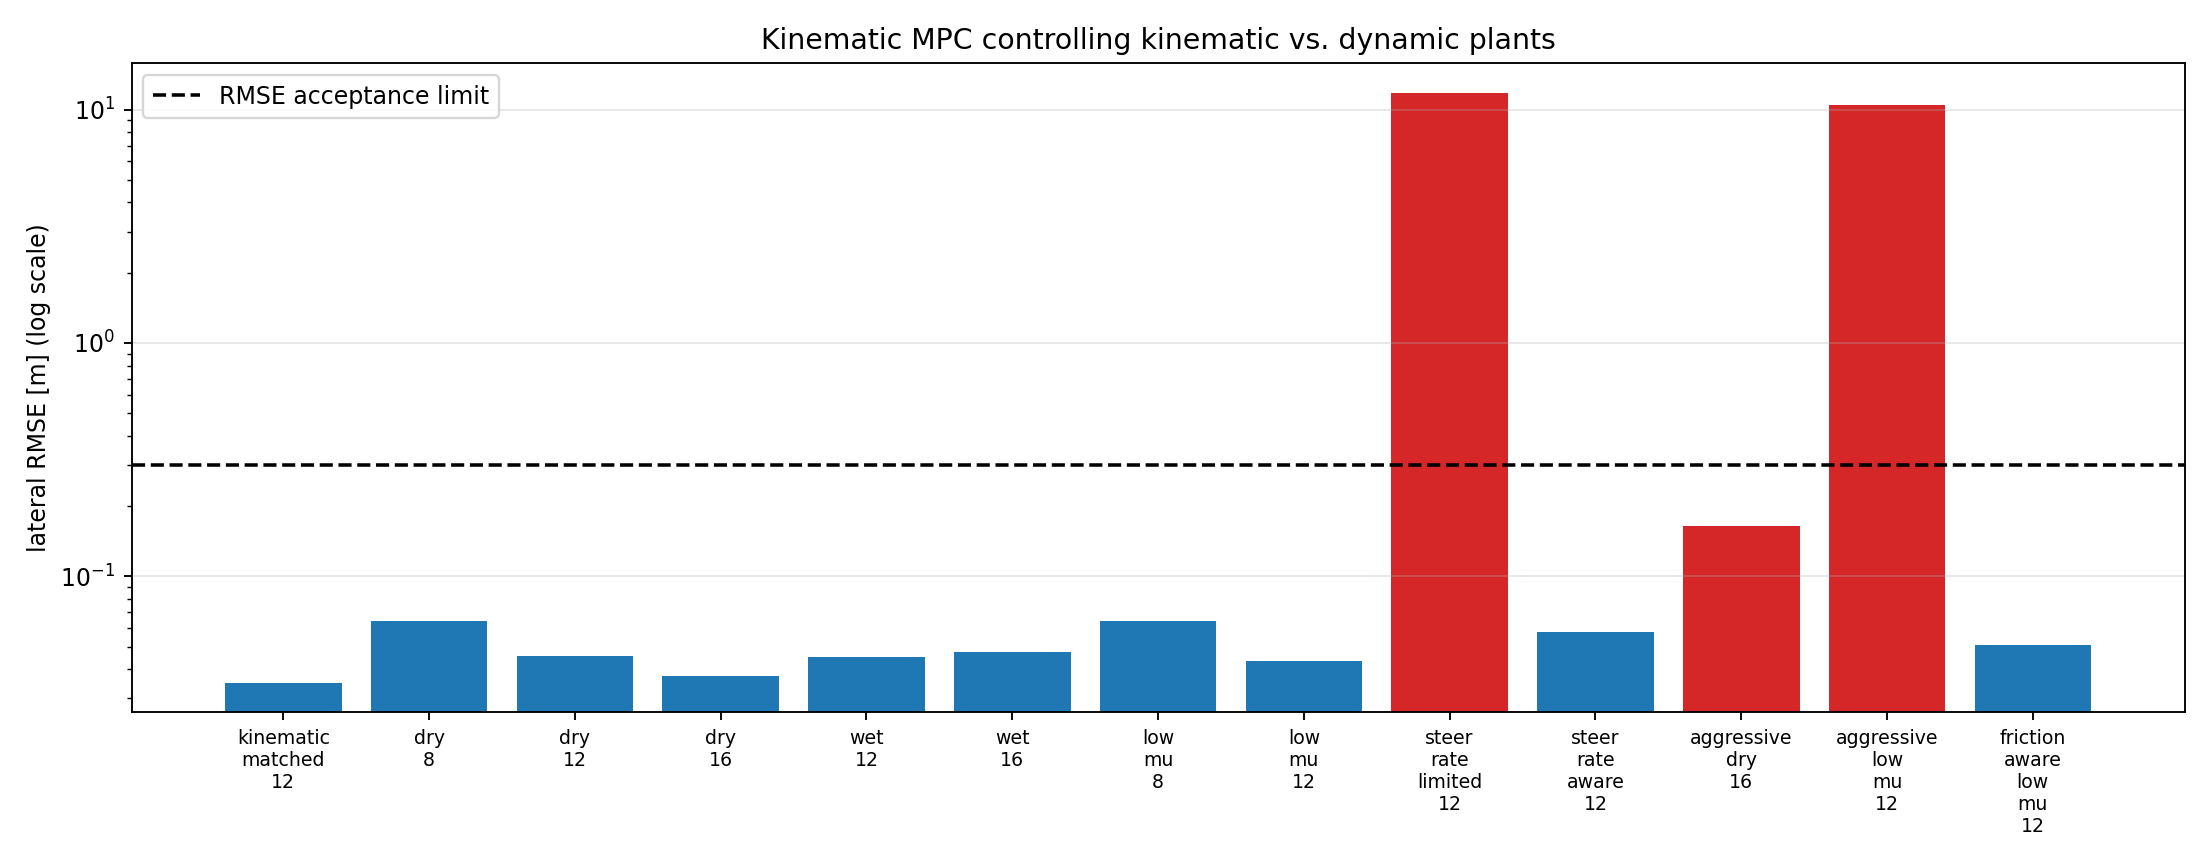
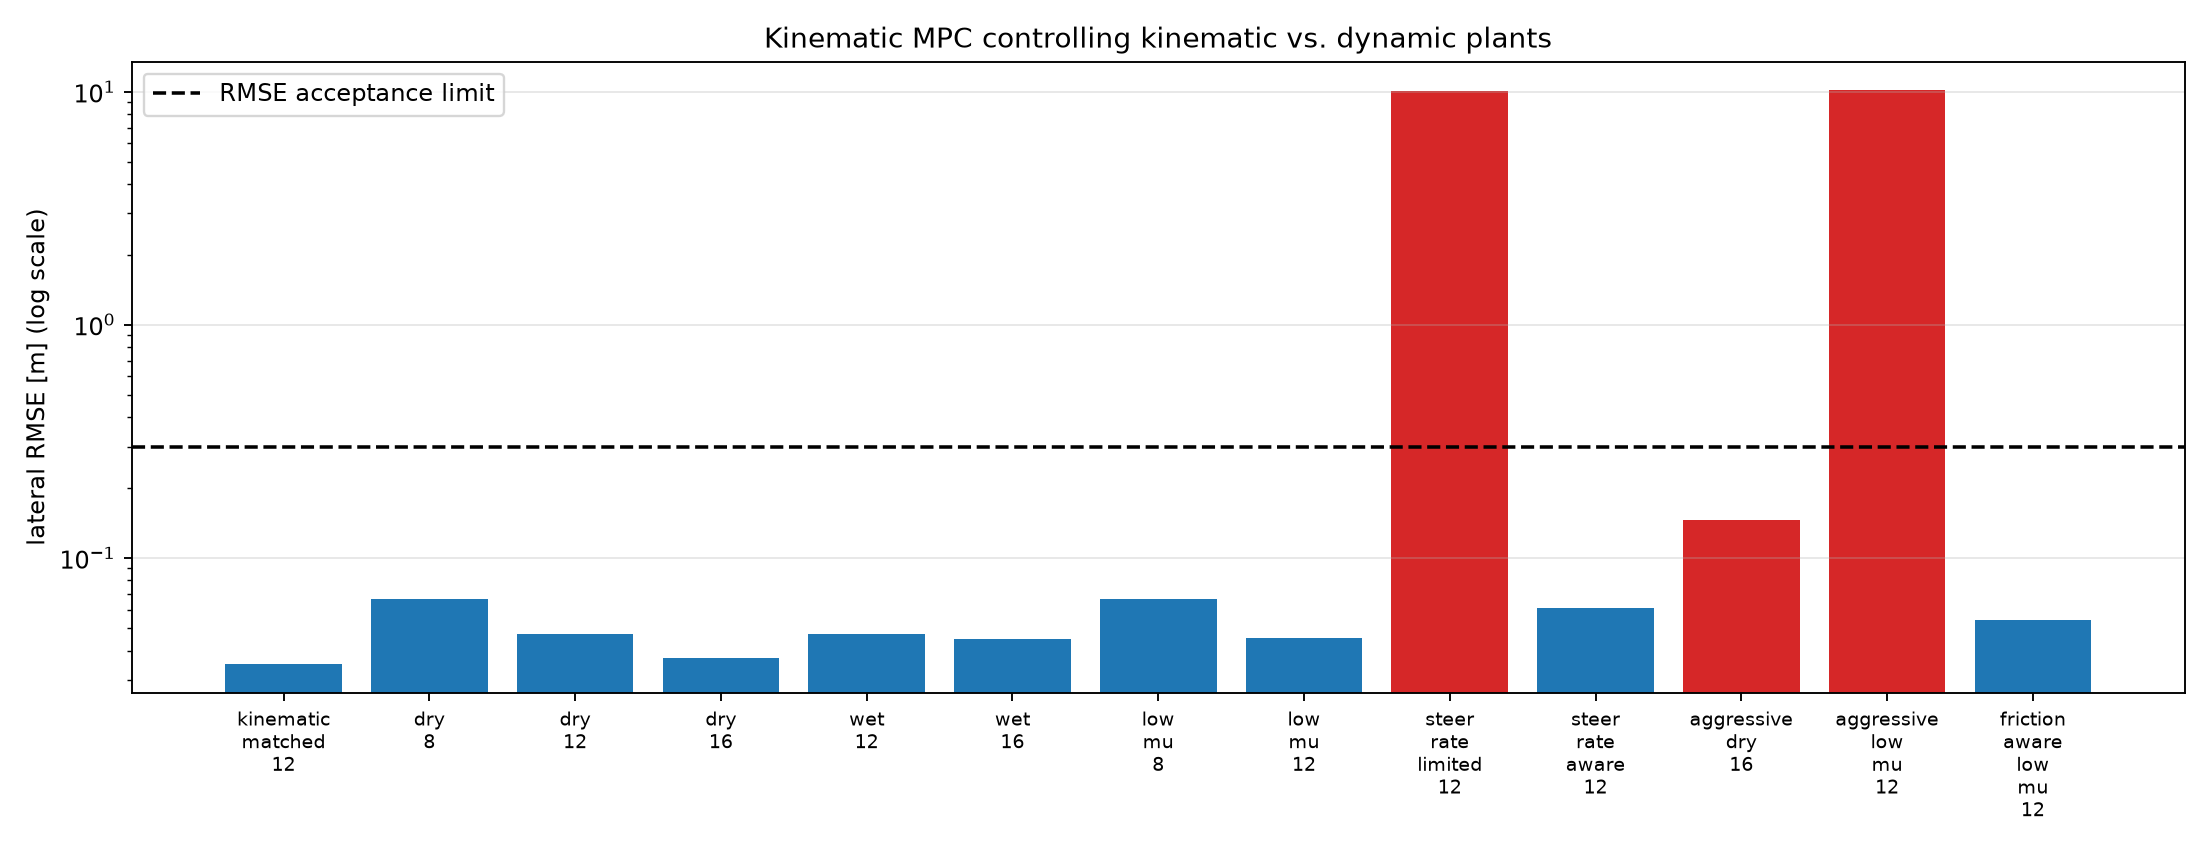
fix: correct dynamic bicycle physics and benchmark
Correct body-frame force coupling and steering-force projection in the six-state dynamic bicycle plant, add physics-invariant tests, regenerate the dynamic benchmark, and update the V1.1.1 documentation/results.

diff --git a/models/dynamic_vehicle.py b/models/dynamic_vehicle.py
@@ -64,7 +64,13 @@ class DynamicVehicleState:
 
 
 class DynamicBicycle:
-    """Six-state single-track plant with smooth nonlinear tires and friction circles."""
+    """Six-state single-track plant with nonlinear tires and per-axle friction circles.
+
+    Tire forces are formed in each wheel frame. Front-axle forces are rotated by the
+    steering angle into the vehicle body frame before the translational and yaw
+    equations are evaluated. The body-frame velocity equations retain the standard
+    ``vy * yaw_rate`` and ``vx * yaw_rate`` coupling terms.
+    """
 
     def __init__(self, config: DynamicVehicleConfig, limits: VehicleConfig, dt: float):
         if not np.isfinite(dt) or dt <= 0.0:
@@ -90,10 +96,16 @@ class DynamicBicycle:
         wheelbase = self.config.lf + self.config.lr
         front_load = self.config.mass * self.config.gravity * self.config.lr / wheelbase
         rear_load = self.config.mass * self.config.gravity * self.config.lf / wheelbase
-        total_longitudinal_force = np.clip(
-            self.config.mass * requested_accel,
-            -self.config.friction_coefficient * self.config.mass * self.config.gravity,
-            self.config.friction_coefficient * self.config.mass * self.config.gravity,
+        total_longitudinal_force = float(
+            np.clip(
+                self.config.mass * requested_accel,
+                -self.config.friction_coefficient
+                * self.config.mass
+                * self.config.gravity,
+                self.config.friction_coefficient
+                * self.config.mass
+                * self.config.gravity,
+            )
         )
         front_longitudinal = total_longitudinal_force * self.config.lr / wheelbase
         rear_longitudinal = total_longitudinal_force * self.config.lf / wheelbase
@@ -102,20 +114,20 @@ class DynamicBicycle:
         rear_circle = self.config.friction_coefficient * rear_load
         front_lateral_limit = np.sqrt(max(front_circle**2 - front_longitudinal**2, 0.0))
         rear_lateral_limit = np.sqrt(max(rear_circle**2 - rear_longitudinal**2, 0.0))
-        front_force = self._smooth_tire_force(
+        front_lateral = self._smooth_tire_force(
             alpha_front,
             self.config.cornering_stiffness_front,
             front_lateral_limit,
         )
-        rear_force = self._smooth_tire_force(
+        rear_lateral = self._smooth_tire_force(
             alpha_rear,
             self.config.cornering_stiffness_rear,
             rear_lateral_limit,
         )
-        front_utilization = np.hypot(front_longitudinal, front_force) / max(
+        front_utilization = np.hypot(front_longitudinal, front_lateral) / max(
             front_circle, 1e-9
         )
-        rear_utilization = np.hypot(rear_longitudinal, rear_force) / max(
+        rear_utilization = np.hypot(rear_longitudinal, rear_lateral) / max(
             rear_circle, 1e-9
         )
         self.max_tire_friction_utilization = max(
@@ -123,15 +135,21 @@ class DynamicBicycle:
             float(front_utilization),
             float(rear_utilization),
         )
-        accel = total_longitudinal_force / self.config.mass
+
+        cos_steer = np.cos(steer)
+        sin_steer = np.sin(steer)
+        front_force_x = front_longitudinal * cos_steer - front_lateral * sin_steer
+        front_force_y = front_longitudinal * sin_steer + front_lateral * cos_steer
+        total_force_x = front_force_x + rear_longitudinal
+        total_force_y = front_force_y + rear_lateral
 
         x_dot = vx * np.cos(yaw) - vy * np.sin(yaw)
         y_dot = vx * np.sin(yaw) + vy * np.cos(yaw)
         yaw_dot = yaw_rate
-        vx_dot = accel
-        vy_dot = (front_force + rear_force) / self.config.mass - vx * yaw_rate
+        vx_dot = total_force_x / self.config.mass + vy * yaw_rate
+        vy_dot = total_force_y / self.config.mass - vx * yaw_rate
         yaw_rate_dot = (
-            self.config.lf * front_force - self.config.lr * rear_force
+            self.config.lf * front_force_y - self.config.lr * rear_lateral
         ) / self.config.yaw_inertia
         return np.array([x_dot, y_dot, yaw_dot, vx_dot, vy_dot, yaw_rate_dot])
 

diff --git a/tests/test_dynamic_physics.py b/tests/test_dynamic_physics.py
@@ -1,0 +1,73 @@
+import unittest
+
+import numpy as np
+
+from config import VehicleConfig
+from models import DynamicBicycle, DynamicVehicleConfig, DynamicVehicleState
+
+
+class DynamicBicyclePhysicsTests(unittest.TestCase):
+    def setUp(self) -> None:
+        self.limits = VehicleConfig()
+
+    def test_zero_input_straight_motion_is_force_free(self):
+        plant = DynamicBicycle(DynamicVehicleConfig(), self.limits, 0.1)
+        derivative = plant._derivative(
+            DynamicVehicleState(0.0, 0.0, 0.0, 10.0).as_array(),
+            np.array([0.0, 0.0]),
+        )
+        np.testing.assert_allclose(
+            derivative,
+            np.array([10.0, 0.0, 0.0, 0.0, 0.0, 0.0]),
+            atol=1e-12,
+        )
+
+    def test_body_frame_longitudinal_equation_retains_vy_yaw_rate_coupling(self):
+        config = DynamicVehicleConfig(
+            cornering_stiffness_front=1e-9,
+            cornering_stiffness_rear=1e-9,
+        )
+        plant = DynamicBicycle(config, self.limits, 0.1)
+        state = DynamicVehicleState(
+            0.0,
+            0.0,
+            0.0,
+            vx=10.0,
+            vy=1.0,
+            yaw_rate=0.2,
+        )
+        derivative = plant._derivative(state.as_array(), np.array([0.0, 0.0]))
+        self.assertAlmostEqual(derivative[3], state.vy * state.yaw_rate, places=10)
+
+    def test_front_tire_force_is_rotated_into_vehicle_body_frame(self):
+        plant = DynamicBicycle(DynamicVehicleConfig(), self.limits, 0.1)
+        state = DynamicVehicleState(0.0, 0.0, 0.0, 10.0)
+        derivative = plant._derivative(state.as_array(), np.array([0.0, 0.1]))
+
+        self.assertLess(derivative[3], 0.0)
+        self.assertGreater(derivative[4], 0.0)
+        self.assertGreater(derivative[5], 0.0)
+
+    def test_left_and_right_steering_are_dynamically_symmetric(self):
+        plant = DynamicBicycle(DynamicVehicleConfig(), self.limits, 0.1)
+        state = DynamicVehicleState(0.0, 0.0, 0.0, 10.0).as_array()
+        left = plant._derivative(state, np.array([0.0, 0.1]))
+        right = plant._derivative(state, np.array([0.0, -0.1]))
+
+        self.assertAlmostEqual(left[3], right[3], places=12)
+        self.assertAlmostEqual(left[4], -right[4], places=12)
+        self.assertAlmostEqual(left[5], -right[5], places=12)
+
+    def test_zero_steer_longitudinal_acceleration_matches_requested_acceleration(self):
+        plant = DynamicBicycle(DynamicVehicleConfig(), self.limits, 0.1)
+        derivative = plant._derivative(
+            DynamicVehicleState(0.0, 0.0, 0.0, 10.0).as_array(),
+            np.array([1.5, 0.0]),
+        )
+        self.assertAlmostEqual(derivative[3], 1.5, places=12)
+        self.assertAlmostEqual(derivative[4], 0.0, places=12)
+        self.assertAlmostEqual(derivative[5], 0.0, places=12)
+
+
+if __name__ == "__main__":
+    unittest.main()

diff --git a/README.md b/README.md
@@ -1,9 +1,9 @@
 # Autonomous Vehicle Motion Planning & MPC
 
-[![Version](https://img.shields.io/badge/version-v1.1.0-blueviolet)](CHANGELOG.md)
+[![Version](https://img.shields.io/badge/version-v1.1.1-blueviolet)](CHANGELOG.md)
 [![CI](https://github.com/Jerry-124/frenet-mpc-motion-planning/actions/workflows/ci.yml/badge.svg)](https://github.com/Jerry-124/frenet-mpc-motion-planning/actions/workflows/ci.yml)
 [![Python](https://img.shields.io/badge/Python-3.10%2B-blue)](#run)
-[![Tests](https://img.shields.io/badge/tests-27-brightgreen)](#current-completion-status)
+[![Tests](https://img.shields.io/badge/tests-32-brightgreen)](#current-completion-status)
 
 An executable baseline for Frenet-frame lane-change trajectory generation and constrained trajectory tracking with nonlinear model predictive control (NMPC).
 
@@ -22,7 +22,7 @@ An executable baseline for Frenet-frame lane-change trajectory generation and co
 - multi-candidate Frenet local planner with moving-obstacle prediction
 - hard road-boundary/collision rejection and interpretable cost breakdown
 - Monte Carlo robustness benchmark with delay compensation
-- six-state dynamic bicycle plant with smooth nonlinear tire forces and per-axle friction circles
+- six-state dynamic bicycle plant with body-frame force coupling, steering-force projection, smooth nonlinear tire forces, and per-axle friction circles
 - speed/friction/model-mismatch operating-envelope benchmark
 - hard steering-rate constraints initialized from measured actuator state
 - friction-circle-aware speed/timing adaptation with longitudinal acceleration limits
@@ -55,6 +55,7 @@ Run the complete automated unit and quantitative regression suite:
 ```bash
 python -m pytest -q
 ruff check .
+ruff format --check .
 ```
 
 Outputs are written to `results/metrics/` and `results/figures/`.
@@ -185,25 +186,25 @@ Timing is a local Python measurement, not a hard real-time guarantee. Full sweep
 
 ## Dynamic-plant model mismatch
 
-`dynamic_model_benchmark.py` replaces the matched kinematic plant with a six-state dynamic bicycle model while leaving NMPC's prediction model unchanged. The plant adds lateral velocity, yaw rate, mass, yaw inertia, axle geometry, front/rear cornering stiffness, smooth `tanh` tire-force saturation, combined longitudinal/lateral friction circles at each axle, and RK4 integration. Physical parameters are loaded from the experiment configuration.
+`dynamic_model_benchmark.py` replaces the matched kinematic plant with a six-state dynamic bicycle model while leaving NMPC's prediction model unchanged. The plant adds lateral velocity, yaw rate, mass, yaw inertia, axle geometry, front/rear cornering stiffness, smooth `tanh` tire-force saturation, combined longitudinal/lateral friction circles at each axle, and RK4 integration. Front-wheel forces are resolved in the steered wheel frame and rotated into the vehicle body frame; the longitudinal/lateral velocity equations retain the standard `v_y r` / `v_x r` coupling terms. Physical parameters are loaded from the experiment configuration.
 
 | Scenario | Lateral RMSE | Max sideslip | Result |
-|---|---:|---:|
+|---|---:|---:|---|
 | Matched kinematic, 12 m/s | 0.035 m | 0.00° | Pass |
-| Dynamic dry, 8–16 m/s | 0.037–0.064 m | ≤3.36° | Pass |
-| Dynamic wet, 12–16 m/s | 0.045–0.048 m | ≤2.44° | Pass |
-| Dynamic low-μ, 8–12 m/s | 0.043–0.064 m | ≤1.96° | Pass |
-| Aggressive dry, 16 m/s | 0.164 m | 10.42° | Fail |
-| Steering-rate limited, 12 m/s | 11.783 m | 55.60° | Fail |
-| Steering-rate aware MPC, 12 m/s | 0.058 m | 1.79° | Pass |
-| Aggressive low-μ, 12 m/s | 10.462 m | 43.15° | Fail |
-| Friction-aware low-μ planning | 0.051 m | 1.76° | Pass |
+| Dynamic dry, 8–16 m/s | 0.037–0.066 m | ≤3.54° | Pass |
+| Dynamic wet, 12–16 m/s | 0.045–0.047 m | ≤2.36° | Pass |
+| Dynamic low-μ, 8–12 m/s | 0.045–0.067 m | ≤1.99° | Pass |
+| Aggressive dry, 16 m/s | 0.146 m | 9.09° | Fail |
+| Steering-rate limited, 12 m/s | 10.054 m | 5.93° | Fail |
+| Steering-rate aware MPC, 12 m/s | 0.061 m | 1.80° | Pass |
+| Aggressive low-μ, 12 m/s | 10.116 m | 89.51° | Fail |
+| Friction-aware low-μ planning | 0.054 m | 1.71° | Pass |
 
-The results separate two failure mechanisms. Ordinary tire-dynamics mismatch remains manageable, but an unmodeled `0.6 rad/s` steering-rate limit destabilizes the controller. Adding an actual-steering initial condition and hard rate constraints reduces lateral RMSE by `99.5%` without changing the physical actuator limit. The nonlinear tire model also correctly rejects the aggressive dry case on the `5°` sideslip gate even though its tracking RMSE remains below `0.30 m`; this prevents a numerically close but physically unstable run from being labeled successful.
+The results separate two failure mechanisms. Ordinary tire-dynamics mismatch remains manageable, but an unmodeled `0.6 rad/s` steering-rate limit destabilizes the controller. Adding an actual-steering initial condition and hard rate constraints reduces lateral RMSE by approximately `99.4%` without changing the physical actuator limit. The corrected nonlinear plant also rejects the aggressive dry case on the `5°` sideslip gate even though its tracking RMSE remains below `0.30 m`; this prevents a numerically close but dynamically unstable run from being labeled successful.
 
-An aggressive `2.5 s` maneuver on `μ = 0.3` saturates available force and fails. The corrected friction-aware planner checks both configured longitudinal acceleration bounds and the Cartesian combined-acceleration friction circle. It evaluates speed-transition timing independently from lane-change timing and selects: transition from `12` to `9.5 m/s` over `2.25 s` → start changing lanes at `0.5 s` → complete the maneuver over `4 s`. Peak longitudinal acceleration is `1.87 m/s²`; peak combined acceleration is `2.73 m/s²`, below the `0.95 μg = 2.80 m/s²` budget. The dynamic plant reaches at most `0.944` tire-friction utilization and lateral RMSE falls by `99.5%` to `0.051 m` without using a longitudinally infeasible reference.
+An aggressive `2.5 s` maneuver on `μ = 0.3` saturates available force and fails, reaching approximately `89.5°` peak sideslip in the configured stress case. The friction-aware planner checks both configured longitudinal acceleration bounds and the Cartesian combined-acceleration friction envelope. It evaluates speed-transition timing independently from lane-change timing and selects: transition from `12` to `9.5 m/s` over `2.25 s` → start changing lanes at `0.5 s` → complete the maneuver over `4 s`. Peak longitudinal acceleration is `1.87 m/s²`; peak combined acceleration is `2.73 m/s²`, below the `0.95 μg = 2.80 m/s²` budget. The corrected dynamic plant reaches at most `0.953` tire-friction utilization and lateral RMSE falls by approximately `99.5%` to `0.054 m` without using a longitudinally infeasible reference.
 
-Both original failures remain in the benchmark as before/after evidence rather than being overwritten.
+The stress-case failures remain in the benchmark as before/after evidence rather than being overwritten. These are software-model operating-envelope tests, not real-vehicle validation.
 
 Scenario-level results are exported to `results/metrics/dynamic_model_benchmark.csv`.
 
@@ -270,6 +271,6 @@ The ego vehicle starts with a deliberate `-0.35 m` lateral disturbance, tracks a
 
 ## Current completion status
 
-The **V1.1.0** software baseline is portfolio-ready: initial modeling, P0 safety corrections, P1 controller analysis/constraints, P2 dynamic-model/configuration/regression work, solver-failure hardening, physical-parameter validation and repository-level reporting are complete. The suite currently contains **27 pytest tests**, including deterministic acceptance gates for the baseline controller, predicted speed constraints, per-axle friction circles, steering-rate correction, friction-aware low-μ correction, robustness aggregation, lane-change-duration parameter propagation, invalid physical configurations, and NMPC solver-failure/non-finite-output handling. GitHub Actions runs the full suite on every push to `main` and every pull request targeting `main` on Python 3.10 and 3.12, together with compile, dependency-consistency, and Ruff checks.
+The **V1.1.1** software baseline is portfolio-ready: initial modeling, P0 safety corrections, P1 controller analysis/constraints, P2 dynamic-model/configuration/regression work, solver-failure hardening, physical-parameter validation, corrected body-frame dynamic-bicycle equations, and repository-level reporting are complete. The suite currently contains **32 pytest tests**, including deterministic acceptance gates for the baseline controller, predicted speed constraints, per-axle friction circles, body-frame force coupling and steering projection, left/right dynamic symmetry, steering-rate correction, friction-aware low-μ correction, robustness aggregation, lane-change-duration parameter propagation, invalid physical configurations, and NMPC solver-failure/non-finite-output handling. GitHub Actions runs the full suite on every push to `main` and every pull request targeting `main` on Python 3.10 and 3.12, together with compile, dependency-consistency, Ruff lint, and Ruff-format checks.
 
-Research extensions remain isolated from V1.1.0 on `research/robust-cbf-nmpc-v2`, whose roadmap targets friction-envelope constraints, CBF safety, robust uncertainty handling, risk-aware scoring, realistic scenario benchmarks, and publication-grade ablations. Hardware-oriented validation remains outside this software-model scope.
+Research extensions remain isolated from V1.1.1 on `research/robust-cbf-nmpc-v2`, whose roadmap targets friction-envelope constraints, CBF safety, robust uncertainty handling, risk-aware scoring, realistic scenario benchmarks, and publication-grade ablations. Hardware-oriented validation remains outside this software-model scope.

diff --git a/CHANGELOG.md b/CHANGELOG.md
@@ -2,6 +2,20 @@
 
 All notable portfolio releases are documented here. The `v1.0.0` entry records the first stable project-level portfolio baseline at its historical commit; package-level semantic versioning was unified with the project release line in `v1.1.0`.
 
+## [1.1.1] - 2026-09-08
+
+### Fixed
+- Corrected the six-state dynamic bicycle equations so front-wheel longitudinal/lateral forces are rotated into the vehicle body frame before translational and yaw dynamics are evaluated.
+- Restored the standard body-frame velocity coupling terms in the longitudinal and lateral equations.
+- Regenerated the complete dynamic-model benchmark and figures using the corrected plant.
+
+### Added
+- Five physics-invariant tests covering force-free straight motion, body-frame velocity coupling, front-force steering projection, left/right steering symmetry, and pure longitudinal acceleration.
+
+### Changed
+- Expanded the automated suite from 27 to 32 tests.
+- Updated the documented dynamic-model operating-envelope results to match the corrected plant.
+
 ## [1.1.0] - 2026-09-07
 
 ### Added
